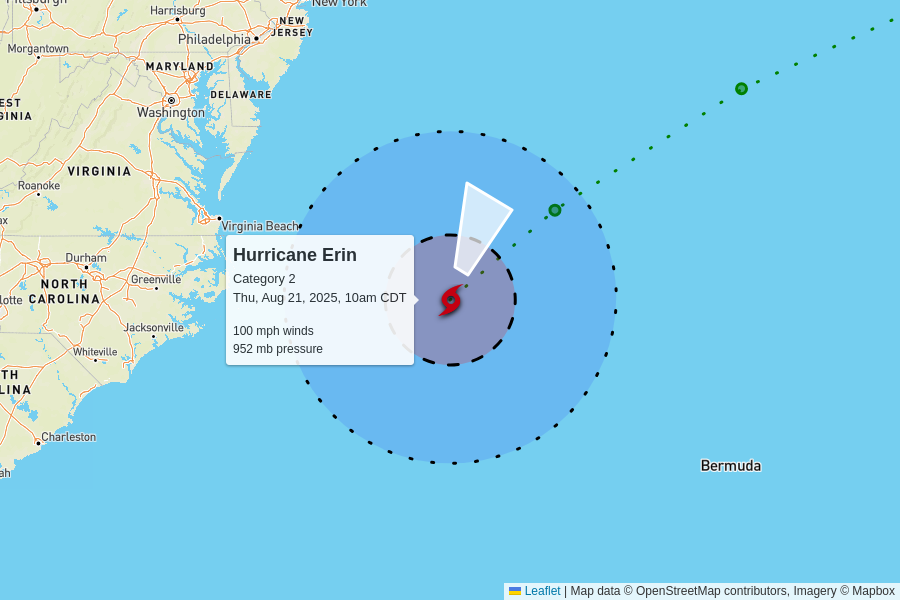
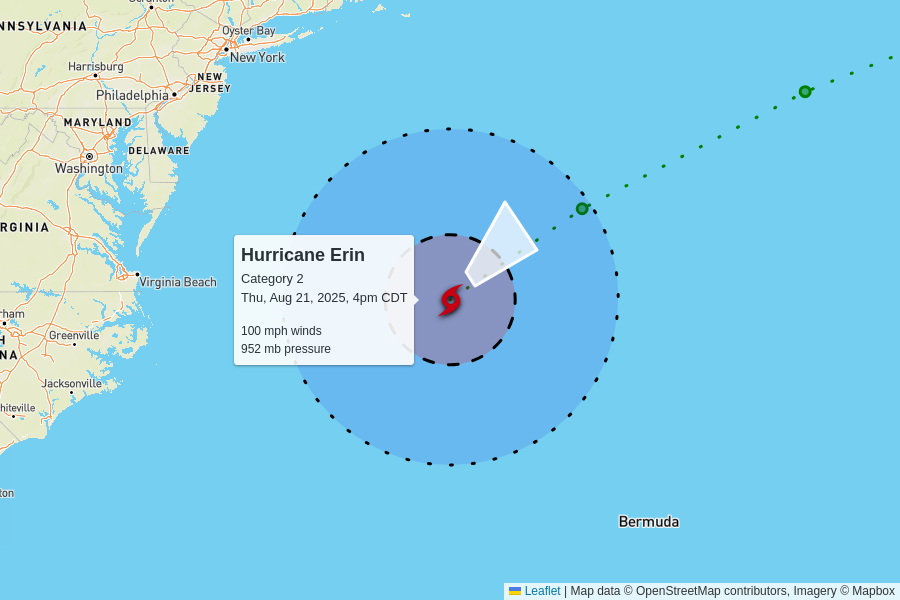
automatic update

diff --git a/docs/index.html b/docs/index.html
@@ -102,7 +102,7 @@
         <td colspan="6" class="storm category-2" >
           <h2>
             Hurricane Erin - Category 2
-            <p class="updated">last updated <span data-time>2025-08-21T15:00:00.000Z</span></p>
+            <p class="updated">last updated <span data-time>2025-08-21T21:00:00.000Z</span></p>
           </h2>
         </td>
       </tr>
@@ -117,12 +117,12 @@
       </tr>
       <tr>
         <td class="spacer"></td>
-        <td>100 mph<br>-5 mph since last update</td>
-        <td>952 mb<br>+7 mb since last update</td>
+        <td>100 mph<br>0 mph since last update</td>
+        <td>952 mb<br>0 mb since last update</td>
         <td>
-          18 mph to the north-northeast
+          20 mph to the northeast
           <br/>
-          <span style="display: inline-block; font-size: 1.5em; transform: rotate(25deg);">↑</span>
+          <span style="display: inline-block; font-size: 1.5em; transform: rotate(50deg);">↑</span>
         </td>
         <td><a href="https://raw.githubusercontent.com/mgwalker/atlantic-hurricanes/main/data/csv/AL052025.csv">AL052025.csv</a></td>
         <td><a href="https://www.nhc.noaa.gov/archive/2025/ERIN.shtml?">NHC advisories</a></td>
